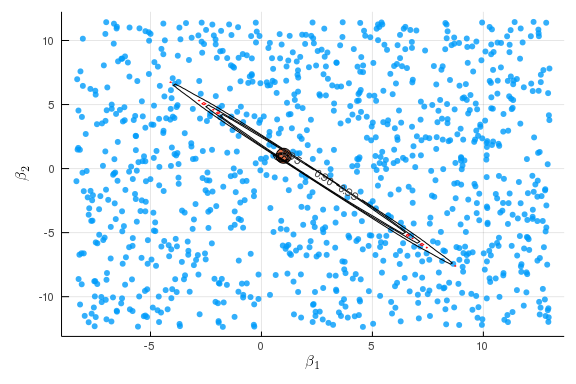
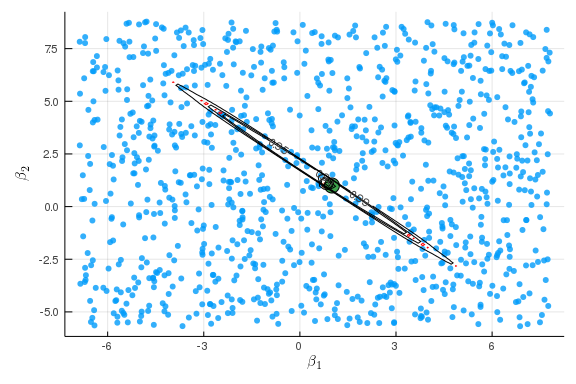
Deployed 120cb8d with MkDocs version: 1.0.4

Changed region(s): [[0.0625, 0.0312, 0.9688, 0.9062], [0.5312, 0.9062, 0.5625, 0.9688]]

diff --git a/extremumEstimation/index.html b/extremumEstimation/index.html
@@ -172,7 +172,7 @@ Q = β -&gt; -logit_likelihood(β,y,x)
 Q(β0)
 </code></pre>
 
-<pre><code>247.94495389935804
+<pre><code>238.7042051718122
 </code></pre>
 
 <p>Now we maximize the likelihood using a few different algorithms from <a href="https://github.com/JuliaNLSolvers/Optim.jl">Optim.jl</a></p>
@@ -287,22 +287,26 @@ dQf = β-&gt;ForwardDiff.gradient(Q,β)
 from 627, so we will just state some basic &ldquo;high-level&rdquo; conditions for
 consistency and asymptotic normality. </p>
 <h2 id="consistency">Consistency<a class="headerlink" href="#consistency" title="Permanent link">&para;</a></h2>
-<div class="theorem">
-**Consistency for extremum estimators**: assume
-
-1. $\hat{Q}_n(\theta)$ converges uniformly in probability to
-   $Q_0(\theta)$
-
-2. $Q_0(\theta)$ is uniquely maximized at $\theta_0$.
-
-3. $\Theta$ is compact and $Q_0(\theta)$ is continuous.
-
-Then $\hat{\theta} \inprob \theta_0$
+<div class="admonition tip">
+<p class="admonition-title"><strong>Theorem:</strong> Consistency for extremum estimators</p>
+<p>Assume</p>
+<ol>
+<li>
+<p>$\hat{Q}_n(\theta)$ converges uniformly in probability to
+$Q_0(\theta)$</p>
+</li>
+<li>
+<p>$Q_0(\theta)$ is uniquely maximized at $\theta_0$.</p>
+</li>
+<li>
+<p>$\Theta$ is compact and $Q_0(\theta)$ is continuous.</p>
+</li>
+</ol>
+<p>Then $\hat{\theta} \inprob \theta_0$</p>
 </div>
-
 <h2 id="asymptotic-normality">Asymptotic normality<a class="headerlink" href="#asymptotic-normality" title="Permanent link">&para;</a></h2>
-<div class="admonition note">
-<p class="admonition-title">Asymptotic normality for extremum estimators</p>
+<div class="admonition tip">
+<p class="admonition-title"><strong>Theorem:</strong> Asymptotic normality for extremum estimators</p>
 <p>Assume</p>
 <ol>
 <li>
@@ -323,8 +327,7 @@ with $H(\theta_0)$ nonsingular</p>
 </ol>
 <p>Then $\sqrt{n} (\hat{\theta} - \theta_0) \indist N\left(0,H^{-1} \Sigma H^{-1} \right)$</p>
 </div>
-<p>Implementing this in Julia using automatic differentiation is pretty
-straightforward. </p>
+<p>Implementing this in Julia using automatic differentiation is straightforward. </p>
 <pre><code class="julia">function logit_likei(β,y,x)
   p = map(xb -&gt; cdf(Logistic(),xb), x*β)
   log.(ifelse.(y, p, 1.0 .- p))
@@ -357,27 +360,27 @@ display( avar.variance/n)
 </code></pre>
 
 <pre><code>3×3 Array{Float64,2}:
- 0.00874458  0.00193052  0.00299081
- 0.00193052  0.00825967  0.00290637
- 0.00299081  0.00290637  0.0091346
+ 0.00959153  0.00258025  0.00273836
+ 0.00258025  0.00840321  0.00252866
+ 0.00273836  0.00252866  0.00835634
 </code></pre>
 
 <pre><code class="julia">display( -avar.invH/n)
 </code></pre>
 
 <pre><code>3×3 Array{Float64,2}:
- 0.00875523  0.00193273  0.00265786
- 0.00193273  0.00853514  0.00257843
- 0.00265786  0.00257843  0.00968396
+ 0.0094303   0.002392    0.00290077
+ 0.002392    0.00797445  0.00249632
+ 0.00290077  0.00249632  0.00871832
 </code></pre>
 
 <pre><code class="julia">display(inv(avar.Σ)/n)
 </code></pre>
 
 <pre><code>3×3 Array{Float64,2}:
- 0.00878106  0.00195331  0.00229133
- 0.00195331  0.00884251  0.00220129
- 0.00229133  0.00220129  0.0103269
+ 0.0092827   0.00221771  0.00307316
+ 0.00221771  0.0075696   0.00246962
+ 0.00307316  0.00246962  0.00909932
 </code></pre>
 
 <p>For maximum likelihood, the information equality says $-H = \Sigma$,
@@ -428,14 +431,19 @@ situations we are more interested these transformation(s) of
 parameters than in the parameters themselves. The delta method is one
 convenient way to approximate the distribution of transformations of 
 the model parameters. </p>
-<div class="theorem">
-**Delta method** assume:
-1. $\sqrt{n} (\hat{\theta} - \theta_0) \indist N(0,\Omega)$
-2. $g: \R^k \to \R^m$ is continuously differentiable
-Then $\sqrt{n}(g(\hat{\theta}) - g(\theta_0)) \indist N(0, \nabla
-      g(\theta_0)^T \Omega \nabla g(\theta_0)$
+<div class="admonition tip">
+<p class="admonition-title"><strong>Theorem:</strong> Delta method</p>
+<p>Assume:</p>
+<ol>
+<li>
+<p>$\sqrt{n} (\hat{\theta} - \theta_0) \indist N(0,\Omega)$</p>
+</li>
+<li>
+<p>$g: \R^k \to \R^m$ is continuously differentiable</p>
+</li>
+</ol>
+<p>Then $\sqrt{n}(g(\hat{\theta}) - g(\theta_0)) \indist N(0, \nabla g(\theta_0)^T \Omega \nabla g(\theta_0)$</p>
 </div>
-
 <p>The following code uses the delta method to plot a 90% pointwise
 confidence band around the estimate marginal effect of one of the
 regressors. </p>
@@ -807,7 +815,7 @@ optcue = optimize(ar_ivshare,
 @show βcue = optcue.minimizer
 </code></pre>
 
-<pre><code>βcue = optcue.minimizer = [0.4573421590424937, 1.5420427291355276]
+<pre><code>βcue = optcue.minimizer = [1.343694239761664, 0.7164820001808698]
 </code></pre>
 
 <pre><code class="julia">Vcue = gmmVar(βcue,β-&gt;gi_ivshare(β,y,x,z),inv(cov(gi_ivshare(βcue,y,x,z))))
@@ -815,8 +823,8 @@ display(Vcue)
 </code></pre>
 
 <pre><code>2×2 Array{Float64,2}:
-  2.16181  -2.13397
- -2.13397   2.11412
+  0.106978   -0.0990261
+ -0.0990261   0.0946307
 </code></pre>
 
 <pre><code class="julia">plot_cr(βcue,Vcue, ar_ivshare)

diff --git a/index.html b/index.html
@@ -144,5 +144,5 @@
 
 <!--
 MkDocs version : 1.0.4
-Build Date UTC : 2019-10-22 15:36:03
+Build Date UTC : 2019-10-22 15:41:07
 -->
